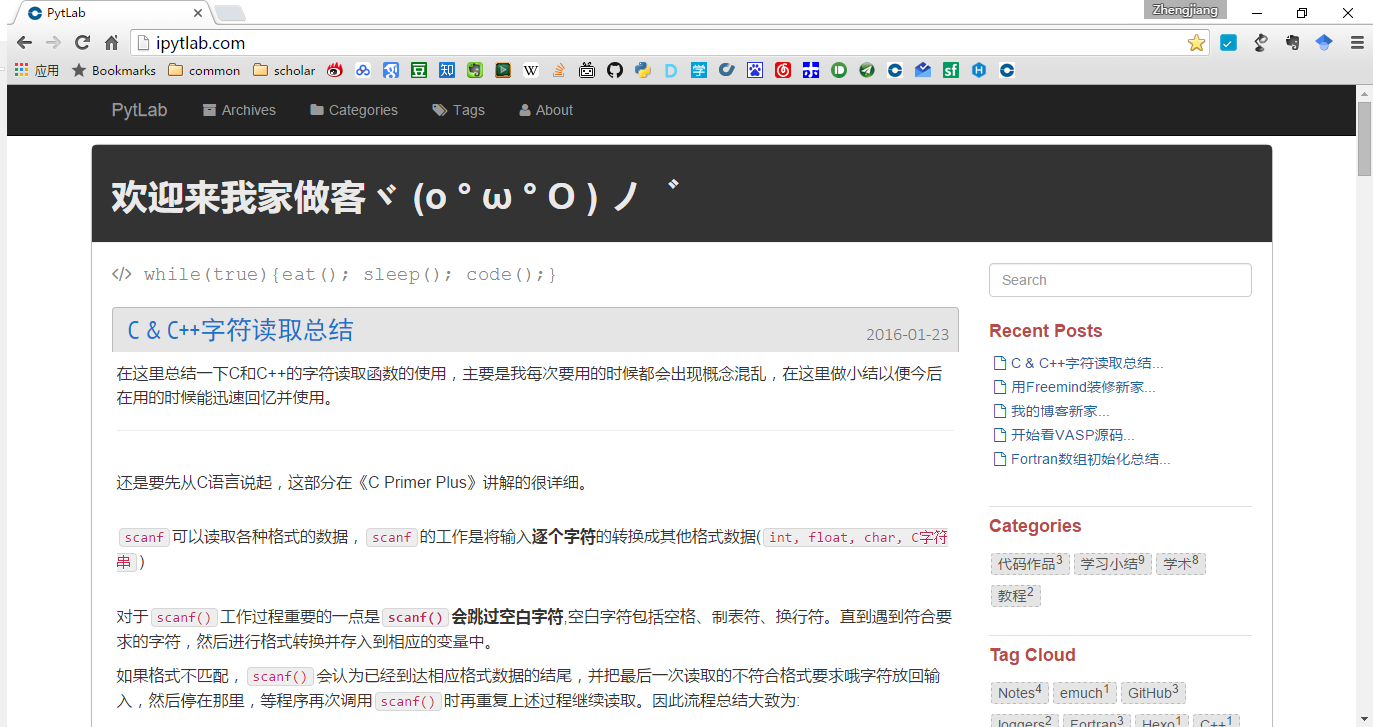
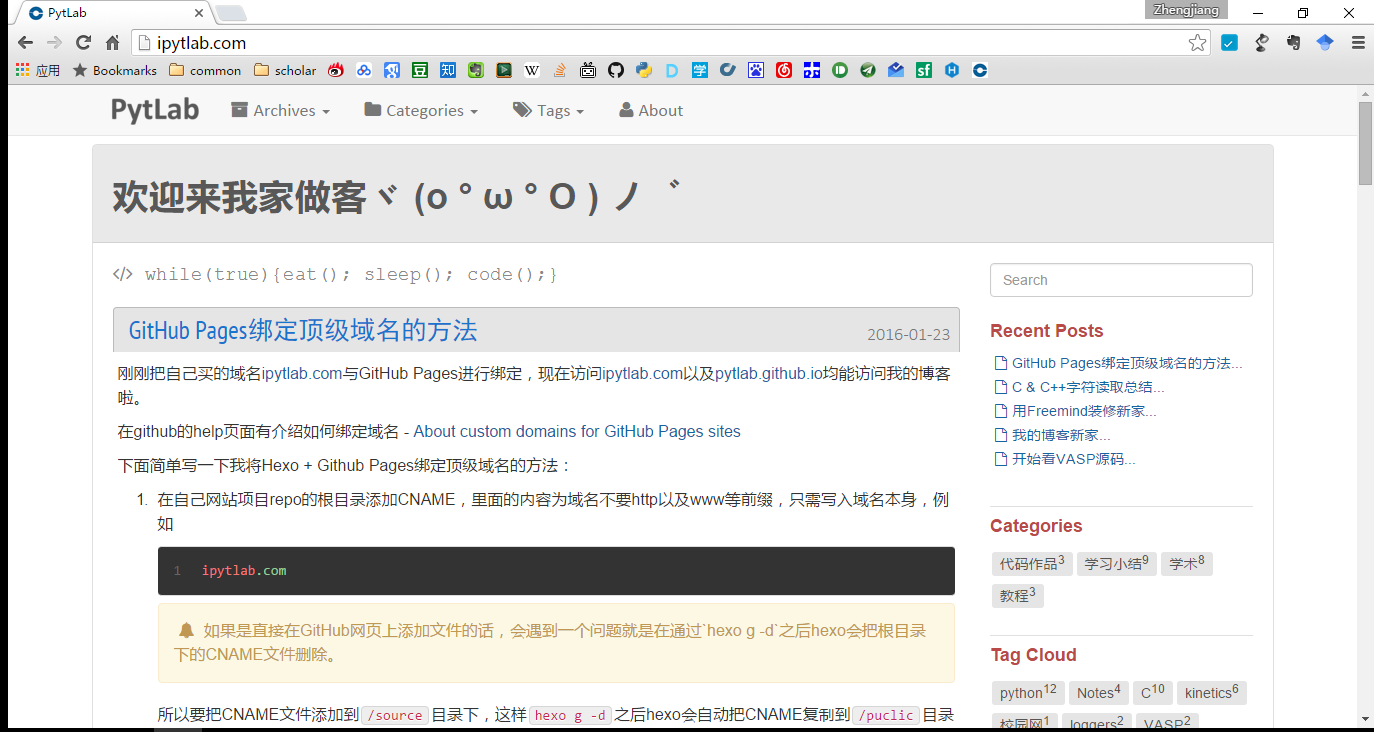
添加博文

diff --git a/source/_posts/2016-01-23-C-C-字符读取总结.md b/source/_posts/2016-01-23-C-C-字符读取总结.md
@@ -12,6 +12,7 @@ toc: true
 在这里总结一下C和C++的字符读取函数的使用，主要是我每次要用的时候都会出现概念混乱，在这里做小结以便今后在用的时候能迅速回忆并使用。
 
 <!-- more -->
+
 ----
 
 ## C
@@ -82,6 +83,7 @@ cin >> ch;
 也就是
 `cin.eof()` -> `true`
 `cin.fail()` -> `true`
+> 输入错误和EOF都将导致`cin`返回`false`
 
 另外，由于这个函数的返回值仍为`cin`对象，`cin`对象很神奇会在需要bool的时候自动从istream对象转换成bool型数值。因此可以直接将`cin`放入条件判断语句中。如:
 ``` Cpp
@@ -96,7 +98,7 @@ while(cin){...};
 
 ### `cin.get(ch)` VS `cin.get()`
 |属性                          |`cin.get(ch)`                           |`ch=cin.get()`         |
-|-----------------------------:|---------------------------------------:|----------------------:|
+|:-----------------------------|:---------------------------------------|:----------------------|
 |**传递输入字符的方式**        | 赋值给参数`ch`                         | 将参数返回值赋值给`ch`|
 |**用于字符输入时函数的返回值**|`istream`对象(执行`bool`转换后为`true`) | `int`类型的字符编码   |
-|**到达`EOF`时函数的返回值**   |`istream`对象(执行`bool`转换后为`false`)| `EOF                  |
+|**到达`EOF`时函数的返回值**   |`istream`对象(执行`bool`转换后为`false`)| `EOF`                 |

diff --git a/source/_posts/2016-01-24-C-字符串读取函数小结.md b/source/_posts/2016-01-24-C-字符串读取函数小结.md
@@ -1,0 +1,43 @@
+---
+title: C++字符串读取函数小结
+date: 2016-01-24 21:36:55
+tags:
+  - C++
+categories:
+  - 学习小结
+description: "简单总结下C++字符串读取函数的使用."
+
+---
+
+由于有一些微小的差异不容易记忆，在这里整理下目前看到的C++的字符串读取函数
+
+<!-- more -->
+
+### 面向单词的读取
+`std::cin`直接读取，正如[前面](/2016/01/23/C-C-字符读取总结/)总结的cin会跳过空字符。
+
+### 面向行的读取
+1. `cin.getline()`
+    通过换行符确定输入结尾，**读取**但**不保存**换行符(用空字符代替换行符)，调用举例
+    ``` Cpp
+    char name[20];
+    std::cin.getline(name, 20);  // 包含字符不超过19个
+    ```
+
+2. `cin.get()`
+    调用方式和确定结尾方式均与`cin.getline()`相同，但是**不读取换行符**,换行符仍保留在流中，因此若要连续读入行要使用变体`cin.get()`将换行符跳过，例如：
+    ``` Cpp
+    std::cin.get(name, 20);
+    std::cin.get();
+    std::cin.get(name, 20);
+    ```
+    由于返回对象仍是`cin`，因此可连续调用
+    ``` Cpp
+    cin.get(name, 20).get();
+    ```
+
+<br>
+#### `cin.getline()` VS `cin.get()`
+`cin.get()`可以通过判断下一个字符是否是换符`\n`来判断是否是读取整行而停止还是数组填满
+`cin.getline()`由于吞掉了`\n`则无法判断
+

diff --git a/source/_posts/2015-08-29-git-push的时候用ssh放弃https.md b/source/_posts/2015-08-29-git-push的时候用ssh放弃https.md
@@ -12,13 +12,14 @@ date: 2015-08-29 09:23:35
 于是找到了原因，之前我的代码是通过https clone到本地的，如果一开始是通过git ssh克隆就不会出现这种问题。如果已经通过https克隆，不用着急可以修改。
 
 在你的版本库.git中打开config文件会有如下一段代码:
-```
+``` shell
 [remote "origin"]  
 fetch = + refs/heads/*:refs/remotes/origin/*  
 url = https://username@github.com/username/projectname.git 
 ```
+
 url改成相应的
-```
+``` shell
 [remote "origin"]  
 fetch = + refs/heads/*:refs/remotes/origin/*  
 url = git@github.com:username/projectname.git 

diff --git a/source/_posts/2016-01-24-Freemind-modified-by-PytLab.md b/source/_posts/2016-01-24-Freemind-modified-by-PytLab.md
@@ -1,0 +1,20 @@
+---
+title: Freemind theme modified by PytLab
+date: 2016-01-24 22:12:44
+tags:
+  - Freemind
+  - Hexo
+  - CSS
+  - EJS
+categories:
+  - 代码作品
+feature: homepage.png
+---
+
+这两天修改了下Freemind的主题的CSS和EJS调教出了属于自己的Freemind主题, 由于很喜欢浅色系像GitHub那种风格，于是就参照人家的风格改写的，
+主题代码地址：[My Freemind Repo](https://github.com/PytLab/hexo-theme-freemind)
+
+<!-- more -->
+
+![](homepage.png)
+

diff --git a/source/_posts/2015-02-12-动力学模型代码的整体组织框架.md b/source/_posts/2015-02-12-动力学模型代码的整体组织框架.md
@@ -7,6 +7,7 @@ tags:
 categories:
   - 学术
 date: 2015-02-12 22:39:16
+
 ---
 
 这个动力学模型大概是在放假前一两个星期开始写的，由于我写代码的低效，今天才刚刚完成了model中的load()的部分，其中包括解析setup file中的基元反应的反应方程式以及检测方程式质量守恒以及吸附位守恒等主要功能。在这里大概记录下写这个模型的大致过程，以便以后回来方便浏览和回想思路。

diff --git a/source/_posts/2016-01-23-GitHub-Pages绑定顶级域名.md b/source/_posts/2016-01-23-GitHub-Pages绑定顶级域名.md
@@ -28,7 +28,7 @@ comments: true
     {% endalert %}
     所以要把CNAME文件添加到`/source`目录下，这样`hexo g -d`之后hexo会自动把CNAME复制到`/puclic`目录下然后将`/public`路径下的内容进行复制并push到远程`master`分支的根目录下。
 
-<!-- more -->
+    <!-- more -->
 
 2. 添加DNS Service记录
     在[DNSPod](https://www.dnspod.cn)注册帐号然后添加域名设置两个A记录，分别是@和www，ip地址填

diff --git a/source/_posts/2015-08-17-C-NOTE--数组初始化总结.md b/source/_posts/2015-08-17-C-NOTE--数组初始化总结.md
@@ -8,6 +8,9 @@ categories:
 ---
 
 今天给结构数组初始化的时候发现也能指定初始化项目列表。于是试了试int数组也可以，在这里把这几种常用的数组初始化方法总结下。
+
+<!-- more -->
+
 ``` C
 #include <stdio.h>
 void putarr(int *);

diff --git a/source/_posts/2015-08-12-VASPy一个面向对象的VASP文件处理库.md b/source/_posts/2015-08-12-VASPy一个面向对象的VASP文件处理库.md
@@ -11,6 +11,7 @@ categories:
 库链接：[<ins datetime="2015-08-12T06:17:43+00:00">Processing VASP files with Python - VASPy</ins>](https://github.com/PytLab/VASPy)
 
 <!-- more -->
+
 ---
 软件包介绍
 ---
